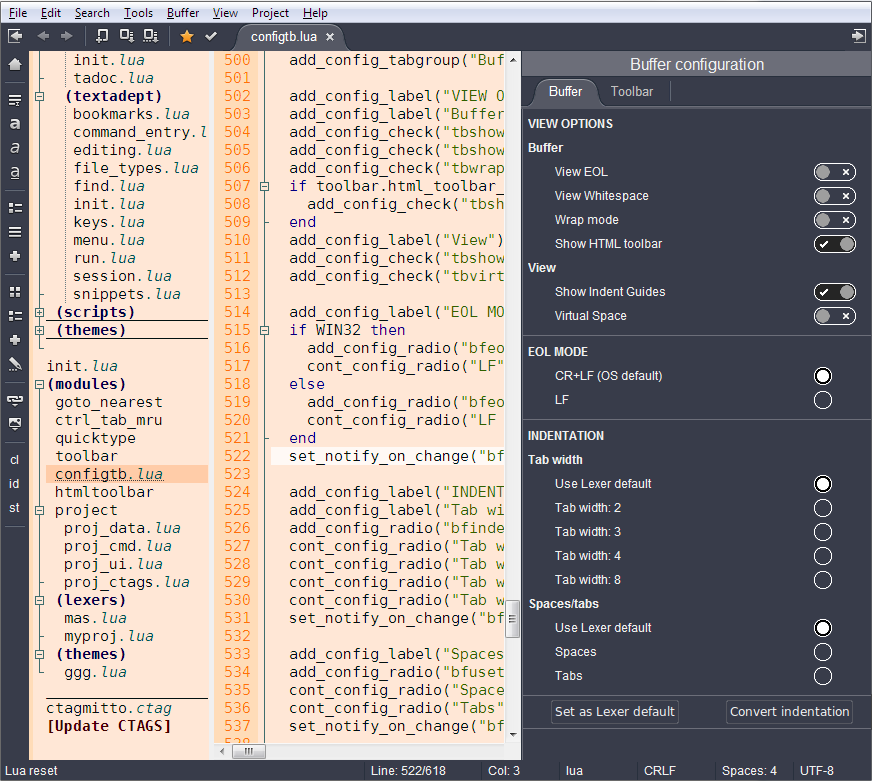
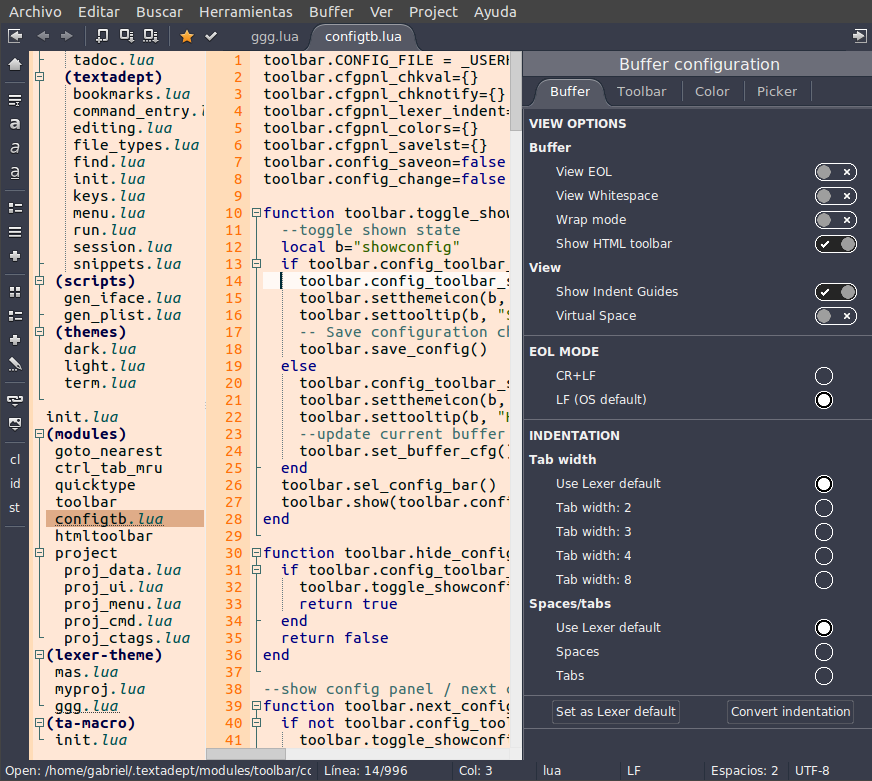
add color picker info to readme

diff --git a/README.md b/README.md
@@ -162,8 +162,10 @@ __buttons__
   4=tabs background, 5-6-7=normal-tab, 8-9-10=disabled-tab, 11-12-13=hilighted tab, 14-15-16=active tab,
   17-19=tab-scroll-left, 18-20=tab-scroll-right, 21-22=close tab, 23=tab changed,
   24-25-26=hilighted text button, 27-28-29=hilight as pressed text button)
-* toolbar._setbackcolor(button-name,color,[keep-background-img],[onlyinthistoolbar])_ sets/changes a button's background color
-* toolbar._setbackcolor("GROUP"/"TOOLBAR",color,[keep-background-img],[onlyinthistoolbar])_ sets/changes a group's or toolbar's background color
+* toolbar._setbackcolor(button-name,color,[keep-background-img],[onlyinthistoolbar])_ sets/changes a button's background color (-1=transparent, -2=color-picker, -3=chosen color)
+* toolbar._setbackcolor("GROUP"/"TOOLBAR",color,[keep-background-img],[onlyinthistoolbar])_ sets/changes a group's or toolbar's background color (-1=transparent)
+* toolbar._setbackcolor("CPICKER",color)_ selects a color in the color picker control
+* toolbar._getpickcolor()_ gets the selected color in the color picker control
 * toolbar._settooltip(button-name,tooltip,[onlyinthistoolbar])_ changes a button's tooltip
 * toolbar._settext(button-name,text,[tooltip],[onlyinthistoolbar])_ changes a text button's text (and tooltip)
 * toolbar._textfont(fontsize,fontyoffset,NORMcol,GRAYcol)_ changes the default text buttons font size and colors in the current edited toolbar
@@ -365,7 +367,9 @@ __Features:__
 
 The configuration panel allows you to configure options in groups organized in tabs. It's the easiest way to use __tatoolbar__.
 
-![config panel](https://github.com/gabdub/ta-tweaks/blob/master/screencapt/tab-win13.png "config panel")
+![config panel 1](https://github.com/gabdub/ta-tweaks/blob/master/screencapt/tab-win13.png "config panel 1")
+
+![config panel 2](https://github.com/gabdub/ta-tweaks/blob/master/screencapt/tab-win14.png "config panel 2")
 
 The configuration settings are kept in __~/.textadept/toolbar_config__.
 
@@ -385,6 +389,20 @@ tbtab2clickclose:3
 tbshowstatbar:true
 ;VERTICAL BAR
 tbvertbar:1
+;===[ Color ]===
+;Editor
+color.text_fore:0x101000
+color.text_back:0xd6e7ff
+color.caret:0x362b00
+......
+;Diff Lexer
+color.red:0x2f32dc
+color.green:0x006030
+;TYPER
+;Order
+ctypeorder:1
+;Format
+ctypeformat:1
 ;===========
 LEXER:INDENT
 ansi_c:s4
@@ -428,3 +446,9 @@ if toolbar then
 end
 ```
 
+Color properties are saved in **~/.textadept/themes/colors.lua** and can be loaded inside the theme file using:
+```
+--COLORS--
+dofile(_USERHOME..'/themes/colors.lua')
+```
+(see ~/.textadept/themes/ggg.lua)
